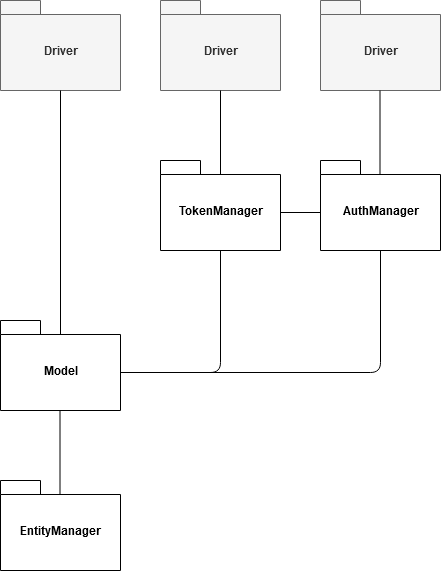
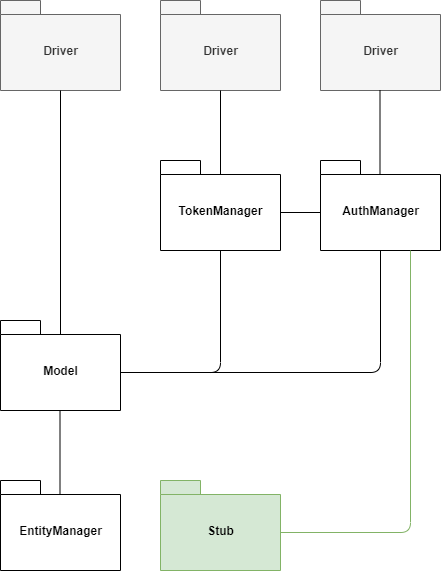
Add document structure, testing and misc

diff --git a/DD/chapters/5_iit_plan.tex b/DD/chapters/5_iit_plan.tex
@@ -3,14 +3,18 @@ The implementation, integration and testing of the system will follow a bottom-u
 External services do not need to be unit tested since it is assumed that they are reliable.
 
 \section{Plan Definition}
+What is described below is the implementation plan of the server-side, as it is the most complex part which presents the most critical parts of the system.\newline
+Please note that the client-side will be implemented and tested in parallel with the server development. The various client applications will therefore be integrated in the final diagram to show the system as a whole.
 
+In the first step (\clupautoref{fig:bottom_up_1}) the Model and the EntityManager are implemented and unit tested using a driver for the components that are still under implementation. These components are responsible for all the interactions with the database and are needed by the majority of all the other components.
 \begin{figure}[H]
 	\centering
-	\includegraphics[width=0.15\linewidth]{bottom_up/bottom_up_1}
+	\includegraphics[width=0.12\linewidth]{bottom_up/bottom_up_1}
 	\caption{Bottom-up approach first step.}
 	\label{fig:bottom_up_1}
 \end{figure}
 
+In the second step (\clupautoref{fig:bottom_up_2}) the components responsible for the authentication are implemented. A stub is introduced to simulate the MailManager component. This is to give priority to the access and permissions mechanism of the system, required by other components.
 \begin{figure}[H]
 	\centering
 	\includegraphics[width=0.5\linewidth]{bottom_up/bottom_up_2}
@@ -18,31 +22,40 @@ External services do not need to be unit tested since it is assumed that they ar
 	\label{fig:bottom_up_2}
 \end{figure}
 
+
+The third step (\clupautoref{fig:bottom_up_3}) shows the implementation of the DashboardManager.
 \begin{figure}[H]
 	\centering
-	\includegraphics[width=0.75\linewidth]{bottom_up/bottom_up_3}
+	\includegraphics[width=0.5\linewidth]{bottom_up/bottom_up_3}
 	\caption{Bottom-up approach third step.}
 	\label{fig:bottom_up_3}
 \end{figure}
 
+In the fourth step (\clupautoref{fig:bottom_up_4}) the WebApp is integrated and supersedes the drivers for AuthManager and DashboardManager. Also the StorePassManager component is implemented and tested with its own driver.
 \begin{figure}[H]
 	\centering
-	\includegraphics[width=0.75\linewidth]{bottom_up/bottom_up_4}
+	\includegraphics[width=0.95\linewidth]{bottom_up/bottom_up_4}
 	\caption{Bottom-up approach fourth step.}
 	\label{fig:bottom_up_4}
 \end{figure}
 
+\clearpage
+
+The fifth step (\clupautoref{fig:bottom_up_5}) shows the implementation and testing of the remaining server components.
 \begin{figure}[H]
 	\centering
-	\includegraphics[width=\linewidth]{bottom_up/bottom_up_5}
+	\includegraphics[width=0.95\linewidth]{bottom_up/bottom_up_5}
 	\caption{Bottom-up approach fifth step.}
 	\label{fig:bottom_up_5}
 \end{figure}
 
+\clearpage
+
+The final step (\clupautoref{fig:bottom_up_6}) shows the implementation of the whole system.
 \begin{figure}[H]
 	\centering
-	\includegraphics[width=\linewidth]{bottom_up/bottom_up_6}
-	\caption{Bottom-up approach sixth step.}
+	\includegraphics[width=0.95\linewidth]{bottom_up/bottom_up_6}
+	\caption{Bottom-up approach final step.}
 	\label{fig:bottom_up_6}
 \end{figure}
 
@@ -74,3 +87,14 @@ For the token system the choice fell on JSON Web Token which is an internet stan
 When the store employee successfully logs in using their credentials or a customer opens the app for the first time, a JSON Web Token is returned and saved locally in the app, instead of the traditional approach of creating a session in the server and returning a cookie.\newline
 When the client wants to access a route the token is sent in the HTTPS request. This is a stateless authentication mechanism as the user state is never saved in server memory. The server's protected routes will check for a valid JWT in the request, and if it is present, the user will be allowed to the resources.\newline
 As JWTs are self-contained, all the necessary information is there, reducing the need to query the database multiple times.
+
+\subsection{Testing tools}
+Automated tests help ensure that the applications performs correctly before publishing them, while retaining features and bug fixes velocity. Several tools are needed:
+\begin{itemize}
+	\item \textbf{JUnit}: a unit testing framework for the Java programming language. It allows to define the test for each of the	parts developed in a Java application. It is very well documented and allows to be integrated with other testing tools.
+	
+	\item The \textbf{test} and \textbf{flutter\_test} packages provided by the core Flutter framework: the \textit{test package} provides the core framework for writing unit tests for the mobile applications and the \textit{flutter\_test package} provides additional utilities for testing widgets.
+	
+	\item \textbf{Mockito}: a popular mock framework which can be used in conjunction with JUnit and Flutter testing packages. Mockito allows to create and configure mock objects. Using Mockito greatly simplifies the development of tests for classes with external dependencies.
+
+\end{itemize}

diff --git a/DD/chapters/1_introduction.tex b/DD/chapters/1_introduction.tex
@@ -46,11 +46,17 @@ This application works as a digital counterpart to the common situation where pe
 		\textbf{Acronyms} & \textbf{Term}\\
 		\midrule
 		CLup & Customers Line-up\\
+		RASD & Requirements Analysis and Specification Document\\
 		QR & Quick Response\\
 		GPS & Global Positioning System\\
 		UI & User Interface\\
 		API & Application Programming Interface\\
-		CAPTCHA & Completely Automated Public Turing test to tell Computers and Humans Apart\\
+		OS & Operating System\\
+		REST & REpresentational State Transfer\\
+		HTTPS & HyperText Transfer Protocol Secure\\
+		JSON & JavaScript Object Notation\\	
+		DB & DataBase\\
+		DBMS & DataBase Management System\\
 		\bottomrule
 	\end{tabular}
 \end{center}
@@ -62,6 +68,7 @@ This application works as a digital counterpart to the common situation where pe
 		\textbf{Abbreviations} & \textbf{Term}\\
 		\midrule
 		e.g. & Exempli gratia\\
+		i.e. & Id est\\
 		\bottomrule
 	\end{tabular}
 \end{center}
@@ -74,18 +81,17 @@ This application works as a digital counterpart to the common situation where pe
 \end{itemize}
 
 \section{Document structure}
-\todo{Document structure}
 This document is presented as it follows:
 \begin{enumerate}
-	\item \textbf{Introduction}:
+	\item \textbf{Introduction}: the purpose of this document along with an overall description of the main functionalities of the system.
 
-	\item \textbf{Architectural Design}:
+	\item \textbf{Architectural Design}: high level overview of how	responsibilities of the system are partitioned and assigned to subsystems. It identifies each high level subsystem and the roles assigned to them. Moreover, it describes how these subsystems collaborate with each other in order to achieve the desired functionality.
 
-	\item \textbf{User Interface Design}:
+	\item \textbf{User Interface Design}: it describes the functionality of the system from the user’s perspective. It shows how the user will be able to interact with the system to complete all the expected features and the feedback information that will be displayed to the user.
 
-	\item \textbf{Requirements Traceability}:
+	\item \textbf{Requirements Traceability}: it provides a cross-reference that traces components to the requirements contained in RASD document. A tabular format is used to show which system components satisfy each of the functional requirements from the RASD.	
 
-    \item \textbf{Implementation, Integration and Test Plan}:
+    \item \textbf{Implementation, Integration and Test Plan}: an explanation of how the implementation, integration and test plan will be carried out and the technologies to be used.
 
-	\item \textbf{Effort Spent}:
+	\item \textbf{Effort Spent}: keeps track of the time spent to complete this document. The first table defines the hours spent as a team for taking the most important decisions, the seconds contain the individual hours.
 \end{enumerate}

diff --git a/RASD/chapters/2_overall_description.tex b/RASD/chapters/2_overall_description.tex
@@ -49,7 +49,7 @@ This section provides a summary of the major functions that the software will pe
 	The main function of \textit{CLup} is to manage queues. A user who wants to do grocery-shopping will join the queue for a specific store through the system.\newline
 
 	Firstly, the user will be asked to select the store in which he desires to line-up.\newline
-	Then the system will prompt the current size of the queue and an estimate of waiting time. If the user is satisfied with his choice it can subscribe to the queue upon completing a CAPTCHA. The operation will be confirmed by the emission of a ticket. The ticket comprehends a queue number, which identify user's position in the queue, and a QR code, which is used for the ticket validation.
+	Then the system will prompt the current size of the queue and an estimate of waiting time. If the user is satisfied with his choice it can subscribe to the queue, operation that will be confirmed by the emission of a ticket. The ticket comprehends a queue number, which identify user's position in the queue, and a QR code, which is used for the ticket validation.
 
 	At any time the user will be able to check his position in the queue and the \textit{leave-at-time} (i.e. the time they need to depart from their current position to reach the store). When the user has to leave from where he is, the system sends a notification. The current position will be retrieved by the GPS of the user device.
 
@@ -69,7 +69,7 @@ This section provides a summary of the major functions that the software will pe
 	 	\item the main \textbf{categories of items} they intend to buy;
 	    \item a \textbf{time slot} chosen from the ones suggested by the system.
 	\end{itemize}
-	Every field of the form is mandatory, this means that the user must complete all of them, including the solution of a CAPTCHA, in order to submit the reservation.
+	Every field of the form is mandatory, this means that the user must complete all of them in order to submit the reservation.
 
 	Customers will have to make reservations at least one day in advance.\newline
 	The system will send an email with a \textit{confirmation link} to the email address provided. To complete the booking process, the user must click the confirmation link within 24 hours from the time of subscription and in any case at least 1 hour before the chosen time slot. Users who fail to do so will have their booking expired.

diff --git a/DD/chapters/6_effort.tex b/DD/chapters/6_effort.tex
@@ -10,7 +10,8 @@
         Deployment View & 2 \\ \hline
         Requirements Traceability & 2\\ \hline
         Components interfaces & 3\\ \hline
-        Implementation, Integration and Test Plan & 5\\ \hline
+        Selected architectural styles and patterns & 1\\ \hline
+        Implementation, Integration and Test Plan & 8\\ \hline
     \end{tabular}
 \end{center}
 
@@ -20,8 +21,10 @@
 	\begin{tabular}{@{}p{0.5\linewidth} p{0.2\linewidth}@{}}
 		\hline
 		\textbf{Task} & \textbf{Hours} \\ \hline
-		Introduction & 2 \\ \hline
-		Component View & 10 \\ \hline
+		Introduction & 3 \\ \hline
+		Component View & 11 \\ \hline
+		Deployment View & 0.5 \\ \hline
+		Implementation, Integration and Test Plan & 0.5\\ \hline
 	\end{tabular}
 \end{center}
 
@@ -31,8 +34,9 @@
 	\begin{tabular}{@{}p{0.5\linewidth} p{0.2\linewidth}@{}}
 		\hline
 		\textbf{Task} & \textbf{Hours} \\ \hline
-		Runtime View & 10 \\ \hline
-		Other design decisions & 3 \\ \hline
+		Runtime View & 11 \\ \hline
+		Other design decisions & 4 \\ \hline
 		User Interface Design & 3 \\ \hline
+		Implementation, Integration and Test Plan & 0.5\\ \hline
 	\end{tabular}
 \end{center}

diff --git a/RASD/chapters/1_introduction.tex b/RASD/chapters/1_introduction.tex
@@ -98,7 +98,6 @@ This application works as a digital counterpart to the common situation where pe
 		QR & Quick Response\\
 		GPS & Global Positioning System\\
 		UI & User Interface\\
-		CAPTCHA & Completely Automated Public Turing test to tell Computers and Humans Apart\\
 		\bottomrule
 	\end{tabular}
 \end{center}

diff --git a/DD/DD.tex b/DD/DD.tex
@@ -11,9 +11,6 @@
 
 	\tableofcontents
 
-    \listoftodos
-    \clearpage
-
 	\pagenumbering{arabic}
 
 	\include{chapters/1_introduction}
